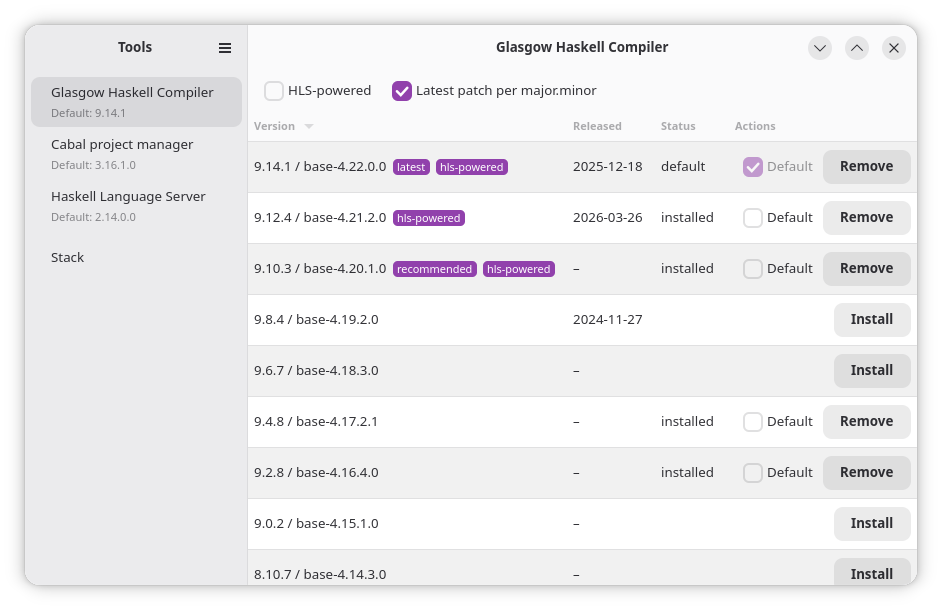
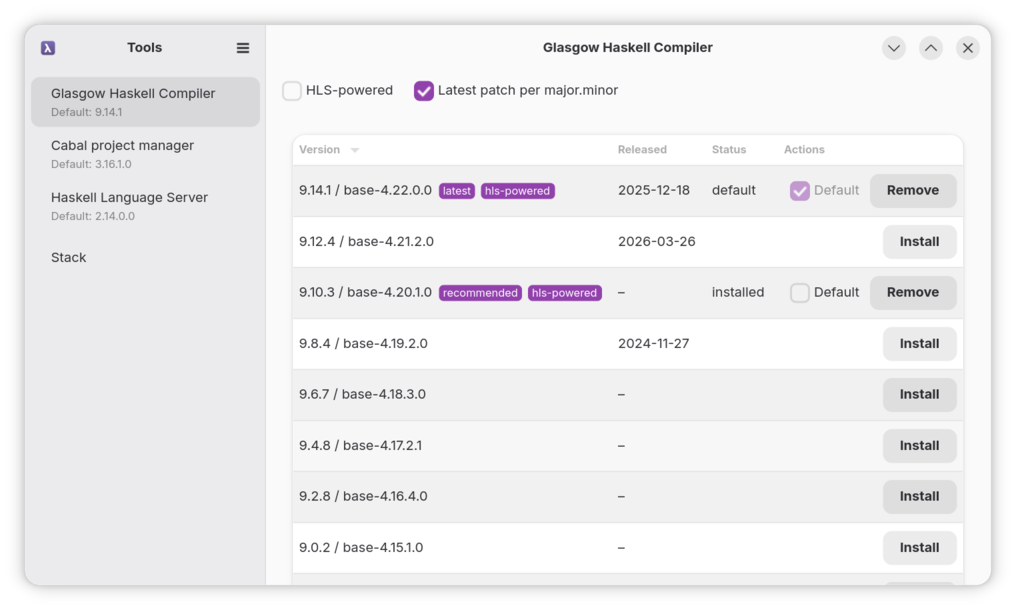
Put margins in the table view too

diff --git a/data/style.css b/data/style.css
@@ -6,12 +6,33 @@ columnview.zebra-stripes > listview > row:nth-child(odd) {
   background-color: alpha(currentColor, 0.07);
 }
 
+columnview.card > header > button:first-child {
+  border-top-left-radius: 12px;
+}
+
+columnview.card > header > button:last-child {
+  border-top-right-radius: 12px;
+}
+
+columnview.card > listview > row:last-child {
+  border-bottom-left-radius: 12px;
+  border-bottom-right-radius: 12px;
+}
+
+.list-container {
+  margin-top: 24px;
+  margin-bottom: 24px;
+}
+
+.table-container {
+  margin-top: 24px;
+  margin-bottom: 24px;
+}
+
 
 .filter-bar {
-  margin-top: 6;
-  margin-bottom: 6;
-  margin-start: 12;
-  margin-end: 12;
+  margin-top: 6px;
+  margin-bottom: 6px;
 }
 
 .round-pill {
